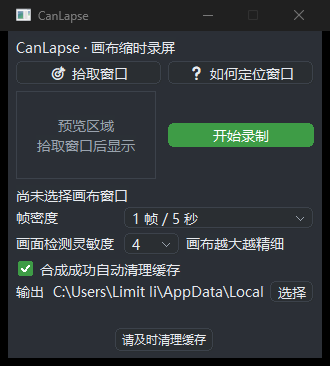
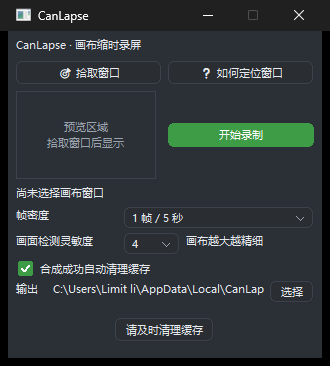
feat(ui): 字号再缩到 11px；清理缓存按钮上移 10px、与下边框留 16px
- 正文字号 15 → 14 → 13 → 11px（主界面与控制条一致），窄按钮降级字号 12 → 9px
- 清理缓存按钮：cy 从 by+19 提到 by+9（上移 10px），底部留白 6 → 16px（两次各 +5px）
- 合成进行中隐藏清理按钮，避免与进度条重叠；窗口 330×371 → 330×366

验证：cargo test 30 项全过；debug/release 双构建 + 注入；打包版 doctor 退出 0。

diff --git a/src/ui/mod.rs b/src/ui/mod.rs
@@ -327,14 +327,14 @@ fn compute_layout(app: &App, cw: i32) -> (Vec<(HWND, RECT, bool)>, RECT, i32) {
     push(c.progress, rect(m, by, inner - 52, 18), true);
     push(c.btn_cancel, rect(cw - m - 48, by, 48, 20), true);
     // 最下方：清理缓存按钮（宽度为内容宽度的 1/3，居中）
-    let cy = by + 19; // 比进度行再上移 5px（用户要求）
+    let cy = by + 9; // 紧贴内容区（用户要求再上移 10px）
     let clean_w = (inner / 3).max(88);
     push(
         c.btn_clean,
         rect(m + (inner - clean_w) / 2, cy, clean_w, 24),
         true,
     );
-    let need = cy + 30;
+    let need = cy + 40; // 按钮与下边框留 16px（用户两次各要求 +5px）
 
     (out, prev, need)
 }
@@ -1310,6 +1310,7 @@ impl App {
         ShowWindow(self.ctl.btn_record, SW_SHOW);
         ShowWindow(self.ctl.progress, 0);
         ShowWindow(self.ctl.btn_cancel, 0);
+        ShowWindow(self.ctl.btn_clean, SW_SHOW);
         // 恢复"已选中画布窗口…"这类常态信息（底部状态栏已移除，信息显示在这一行）
         self.refresh_labels();
     }
@@ -1324,6 +1325,8 @@ impl App {
 
     unsafe fn ui_set_encoding(&self) {
         ShowWindow(self.ctl.btn_record, 0);
+        // 进度条会占用按钮上方的空间，合成期间先隐藏清理按钮，避免叠在一起
+        ShowWindow(self.ctl.btn_clean, 0);
         ShowWindow(self.ctl.progress, SW_SHOW);
         ShowWindow(self.ctl.btn_cancel, SW_SHOW);
     }

diff --git a/src/ui/theme.rs b/src/ui/theme.rs
@@ -80,7 +80,7 @@ fn with_state<R>(f: impl FnOnce(&mut HashMap<isize, State>) -> R) -> R {
 pub fn font() -> HGDIOBJ {
     let f = *FONT.get_or_init(|| unsafe {
         let face = win::wide("Microsoft YaHei UI");
-        let mut f = CreateFontW(-14, 0, 0, 0, FW_NORMAL as i32, 0, 0, 0, 1, 0, 0, 0, 0, face.as_ptr())
+        let mut f = CreateFontW(-11, 0, 0, 0, FW_NORMAL as i32, 0, 0, 0, 1, 0, 0, 0, 0, face.as_ptr())
             as isize;
         if f == 0 {
             f = GetStockObject(DEFAULT_GUI_FONT) as isize;
@@ -96,11 +96,11 @@ pub fn bg_brush() -> HBRUSH {
     b as HBRUSH
 }
 
-/// 12px 小字体：窄按钮放不下时自动降一档
+/// 9px 小字体：窄按钮放不下时自动降一档
 pub fn small_font() -> HGDIOBJ {
     let f = *SMALL_FONT.get_or_init(|| unsafe {
         let face = win::wide("Microsoft YaHei UI");
-        let v = CreateFontW(-12, 0, 0, 0, FW_NORMAL as i32, 0, 0, 0, 1, 0, 0, 0, 0, face.as_ptr())
+        let v = CreateFontW(-9, 0, 0, 0, FW_NORMAL as i32, 0, 0, 0, 1, 0, 0, 0, 0, face.as_ptr())
             as isize;
         if v == 0 {
             font() as isize

diff --git a/src/ui/floatbar.rs b/src/ui/floatbar.rs
@@ -107,7 +107,7 @@ unsafe fn ui_font() -> HGDIOBJ {
     let h = *FONT.get_or_init(|| {
         let face = win::wide("Microsoft YaHei UI");
         let mut f = CreateFontW(
-            -14, // 字高（像素）
+            -11, // 字高（像素）
             0,
             0,
             0,
@@ -124,7 +124,7 @@ unsafe fn ui_font() -> HGDIOBJ {
         ) as isize;
         if f == 0 {
             let seg = win::wide("Segoe UI");
-            f = CreateFontW(-14, 0, 0, 0, FW_NORMAL as i32, 0, 0, 0, 1, 0, 0, 0, 0, seg.as_ptr())
+            f = CreateFontW(-11, 0, 0, 0, FW_NORMAL as i32, 0, 0, 0, 1, 0, 0, 0, 0, seg.as_ptr())
                 as isize;
         }
         if f == 0 {

diff --git a/CHANGELOG.md b/CHANGELOG.md
@@ -55,8 +55,9 @@
 
 ### 变更
 
-- **界面字号整体小一档**：主界面与控制条正文 15px → **14px**，窄按钮的降级字号 12px 保持不变。
-- **【请及时清理缓存】按钮上移 5px**，窗口高度随之 371 → **366**。
+- **界面字号连续缩小**：正文 15px → 14 → 13 → **11px**（主界面与控制条一致），降级字号 12px → **9px**。
+- **【请及时清理缓存】按钮上移 10px、与下边框距离 +10px**：窗口高度 371 → 366 → 361 → **366**；
+  合成进行中会隐藏该按钮，避免和进度条叠在一起。
 - **主界面改成与控制条一致的深色风格**
   - 新增 `src/ui/theme.rs`：统一配色（#2B2F36 底 / #E6E9EE 字 / #3E9C46 主操作）、
     Microsoft YaHei UI 15px 字体、背景画刷，以及**自绘控件**：
